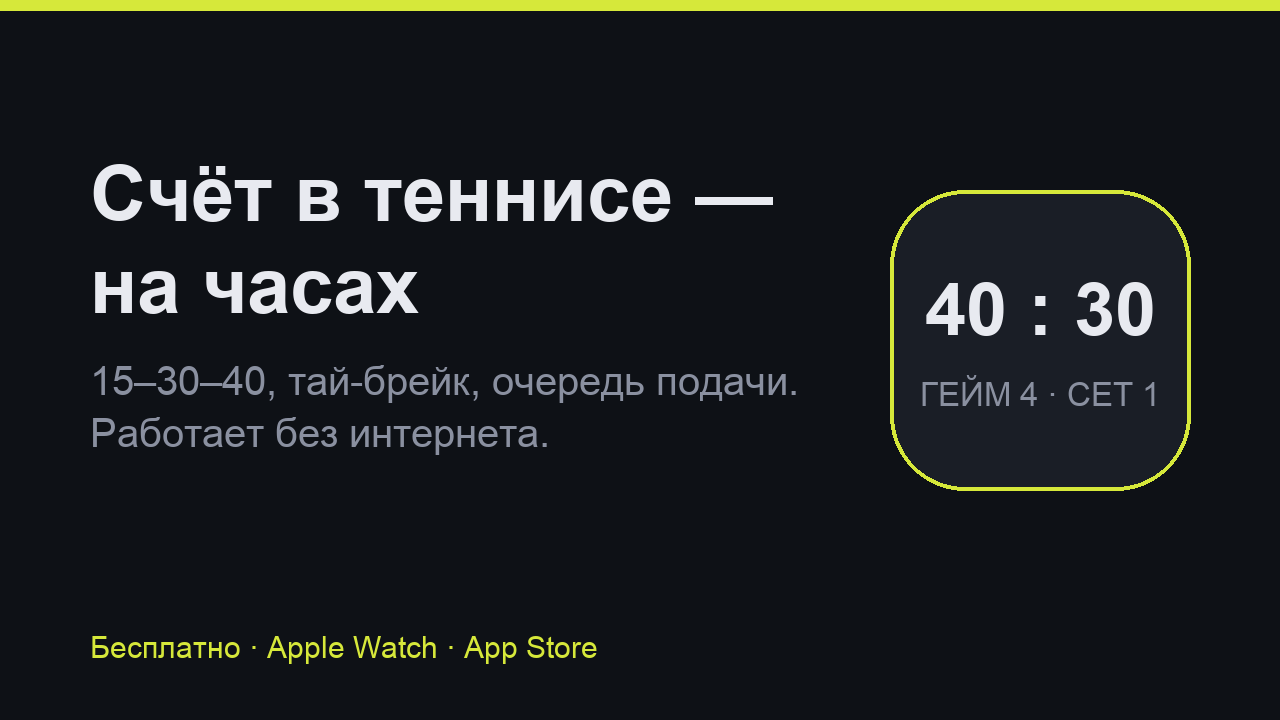
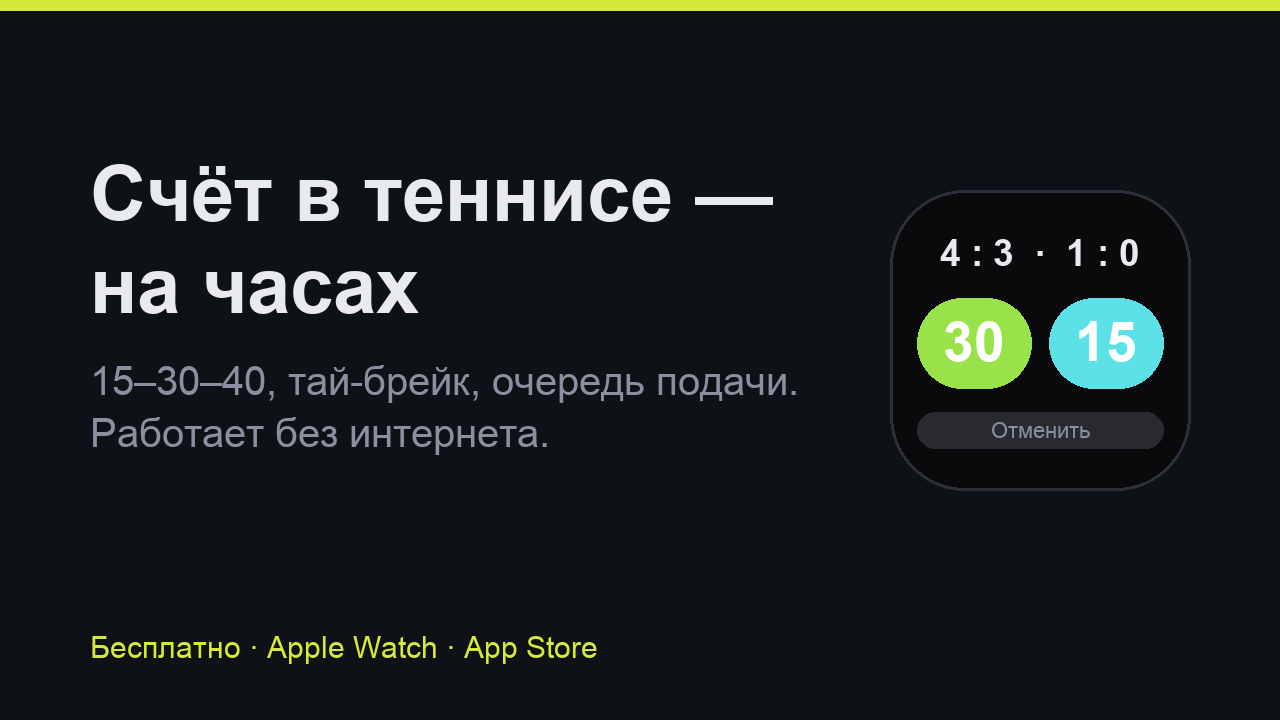
Карточка показывает настоящий экран приложения
Было абстрактное «40 : 30» посередине — на часах такого нет. На экране
сверху геймы и сеты, под ними два очка на цветных клавишах, своё и
чужое, и «Отменить» внизу. Картинка, обещающая одно, а показывающая
другое, работает против продукта.

И поправлен текст поста: интерфейс русский, а не английский — видно на
скриншоте.

Changed region(s): [[0.6875, 0.2444, 0.9375, 0.7028]]

diff --git a/tools/make_card.py b/tools/make_card.py
@@ -40,6 +40,12 @@ INK = (232, 234, 240)
 DIM = (138, 144, 160)
 ACCENT = (214, 232, 58)
 
+# Цвета с настоящего экрана приложения: своё очко — зелёное, чужое —
+# голубое. Карточка должна показывать то, что человек увидит на часах,
+# иначе она обещает одно, а он получает другое.
+MINE = (154, 226, 74)
+THEIRS = (92, 225, 230)
+
 FONTS = "/System/Library/Fonts/Supplemental/"
 
 
@@ -78,25 +84,54 @@ def fitted(draw, text: str, name: str, start: int, limit: float):
 
 
 def watch(draw, x: int, y: int, size: int, top: str, bottom: str):
-    """Циферблат с двумя строками — тем, что показывает приложение.
+    """Экран часов, как он выглядит в игре.
 
-    Пустая середина картинки выглядит недоделанной, а подставлять туда
-    узор незачем: лучше показать сам продукт. Рисуем примитивами, без
-    скриншота: скриншот часов в ленте нечитаем.
+    Сверху строка геймов и сетов, под ней два очка — своё и соперника,
+    каждое на своей клавише. Так устроено настоящее приложение: очко
+    ставится касанием цветного прямоугольника, и именно это надо
+    показать, а не абстрактный счёт посередине.
     """
     draw.rounded_rectangle([x, y, x + size, y + size], radius=size // 4,
-                           fill=(26, 30, 38), outline=ACCENT, width=4)
-    # Размер подбираем под строку, а не наоборот: «40 : 30» и «6 : 4»
-    # разной длины, и фиксированный кегль один из них выпустит за рамку.
-    big = fitted(draw, top, "Arial Bold.ttf", size // 3, size * 0.78)
-    small = fitted(draw, bottom, "Arial.ttf", size // 9, size * 0.8)
+                           fill=(10, 10, 12), outline=(44, 48, 58), width=3)
 
-    width = draw.textlength(top, font=big)
-    draw.text((x + (size - width) / 2, y + size * 0.26), top, font=big,
+    line = fitted(draw, top, "Arial Bold.ttf", size // 8, size * 0.7)
+    width = draw.textlength(top, font=line)
+    draw.text((x + (size - width) / 2, y + size * 0.14), top, font=line,
               fill=INK)
-    width = draw.textlength(bottom, font=small)
-    draw.text((x + (size - width) / 2, y + size * 0.62), bottom, font=small,
-              fill=DIM)
+
+    # Две клавиши в ряд, с полями по краям и просветом посередине.
+    pad = size * 0.09
+    gap = size * 0.06
+    key_w = (size - pad * 2 - gap) / 2
+    key_h = size * 0.30
+    key_y = y + size * 0.36
+
+    points = [p.strip() for p in bottom.split("|")]
+    if len(points) < 2:
+        points = (points + ["0", "0"])[:2]
+
+    for i, (value, colour) in enumerate(zip(points, (MINE, THEIRS))):
+        left = x + pad + i * (key_w + gap)
+        draw.rounded_rectangle([left, key_y, left + key_w, key_y + key_h],
+                               radius=key_h // 2, fill=colour)
+        face = fitted(draw, value, "Arial Bold.ttf", int(key_h * 0.62),
+                      key_w * 0.7)
+        width = draw.textlength(value, font=face)
+        top_pad = (key_h - face.size * 1.15) / 2
+        draw.text((left + (key_w - width) / 2, key_y + top_pad), value,
+                  font=face, fill=(255, 255, 255))
+
+    # Нижняя клавиша — «Отменить»: она есть на экране и объясняет, что
+    # промах не страшен.
+    bar_y = key_y + key_h + size * 0.08
+    draw.rounded_rectangle([x + pad, bar_y, x + size - pad,
+                            bar_y + size * 0.12],
+                           radius=size * 0.06, fill=(40, 42, 48))
+    label = fitted(draw, "Отменить", "Arial.ttf", int(size * 0.075),
+                   size * 0.5)
+    width = draw.textlength("Отменить", font=label)
+    draw.text((x + (size - width) / 2, bar_y + size * 0.021), "Отменить",
+              font=label, fill=DIM)
 
 
 def card(title: str, subtitle: str = "", note: str = "",
@@ -177,7 +212,7 @@ def main() -> int:
     subtitle = args[1] if len(args) > 1 else ""
     note = args[2] if len(args) > 2 else ""
     name = args[3] if len(args) > 3 else "card.png"
-    # Пятым и шестым — две строки циферблата: «40 : 30» и подпись.
+    # Пятым — строка геймов, шестым — два очка через «|»: «30|15».
     face = (args[4], args[5]) if len(args) > 5 else None
     shape = args[6] if len(args) > 6 else "post"
     print(card(title, subtitle, note, name, face, shape))

diff --git a/data/post_app_short.md b/data/post_app_short.md
@@ -29,7 +29,7 @@ https://apps.apple.com/app/id6810779514
 
 Настоящий счёт с ровно и тай-брейком, геймы и сеты считаются сами, очередь подачи тоже. Есть отмена — по часам легко промахнуться. Работает без интернета.
 
-Нужны Apple Watch, интерфейс пока английский.
+Нужны Apple Watch. Интерфейс на русском.
 
 Если играете — поставьте и скажите, что не так. Первые десять человек полезнее первой тысячи.
 
@@ -46,7 +46,7 @@ https://apps.apple.com/app/id6810779514
 
 Настоящий счёт с ровно и тай-брейком, геймы и сеты считаются сами, очередь подачи тоже. Есть отмена — по часам легко промахнуться. Работает без интернета.
 
-Нужны Apple Watch, интерфейс пока английский.
+Нужны Apple Watch. Интерфейс на русском.
 
 Если играете — поставьте и скажите, что не так. Первые десять человек полезнее первой тысячи.
 кнопка: Поставить бесплатно | https://apps.apple.com/app/id6810779514

diff --git a/data/post_app.md b/data/post_app.md
@@ -20,7 +20,7 @@ Tennis Score Umpire — бесплатно, в App Store, работает на 
 
 Ссылка: https://apps.apple.com/app/id6810779514
 
-Честно о границах: нужны Apple Watch, интерфейс английский. Русский добавлю, если окажется, что он нужен — напишите, если это про вас.
+Честно о границах: нужны Apple Watch. Интерфейс русский.
 
 ---
 
@@ -49,6 +49,6 @@ Tennis Score Umpire — бесплатно, в App Store, работает на 
 
 https://apps.apple.com/app/id6810779514
 
-Нужны Apple Watch, интерфейс пока английский.
+Нужны Apple Watch. Интерфейс на русском.
 
 Если играете — поставьте и скажите, что не так. Первые десять человек полезнее первой тысячи.
